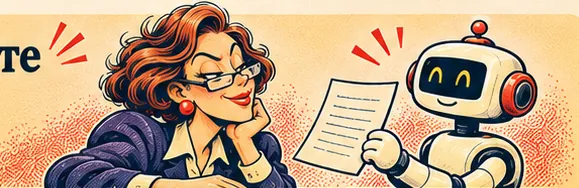
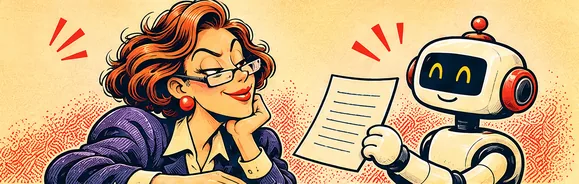
Remove stray letters from the AI section illustration

diff --git a/index.html b/index.html
@@ -135,7 +135,7 @@ document.addEventListener("DOMContentLoaded",function(){var t=document.querySele
     <section class="section" id="approach"><div class="wrap">
       <div class="section-head"><div><h2>Как строится работа</h2></div><p>Сначала фиксируем задачу и состав данных. Объём, сроки и стоимость согласуем до начала работы.</p></div>
       <div class="process-grid"><div class="process-step"><img src="assets/comic/question.webp" width="332" height="235" alt="" loading="lazy" decoding="async"><div class="card-copy"><h3>Обсуждаем вопрос</h3><p>Что нужно понять или решить и почему сейчас не хватает ясности.</p></div></div><div class="process-step"><img src="assets/comic/sources.webp" width="312" height="235" alt="" loading="lazy" decoding="async"><div class="card-copy"><h3>Сверяем данные</h3><p>Какие базы, выписки, документы и отчёты доступны.</p></div></div><div class="process-step"><img src="assets/comic/model.webp" width="315" height="235" alt="" loading="lazy" decoding="async"><div class="card-copy"><h3>Собираю модель</h3><p>Связываю цифры, отмечаю допущения и проверяю расчёты.</p></div></div><div class="process-step"><img src="assets/comic/decision.webp" width="321" height="235" alt="" loading="lazy" decoding="async"><div class="card-copy"><h3>Разбираем решение</h3><p>Объясняю результат и следующий шаг простым языком.</p></div></div></div>
-      <div class="ai-strip" id="ai"><div><h3>ИИ в финансах и юридической работе</h3><p>Помогаю выбирать процессы, где ИИ снимает повторяющуюся работу, и внедрять его постепенно — с правилами для данных, проверкой результата и участием команды.</p><a class="button button-light" href="ai.html">Посмотреть подход <span>↗</span></a></div><img src="assets/comic/ai.webp" width="579" height="188" alt="" loading="lazy" decoding="async"></div>
+      <div class="ai-strip" id="ai"><div><h3>ИИ в финансах и юридической работе</h3><p>Помогаю выбирать процессы, где ИИ снимает повторяющуюся работу, и внедрять его постепенно — с правилами для данных, проверкой результата и участием команды.</p><a class="button button-light" href="ai.html">Посмотреть подход <span>↗</span></a></div><img src="assets/comic/ai.webp?v=2" width="579" height="184" alt="" loading="lazy" decoding="async"></div>
     </div></section>
     <section class="research" id="research-preview" aria-labelledby="research-title">
       <div class="wrap">
